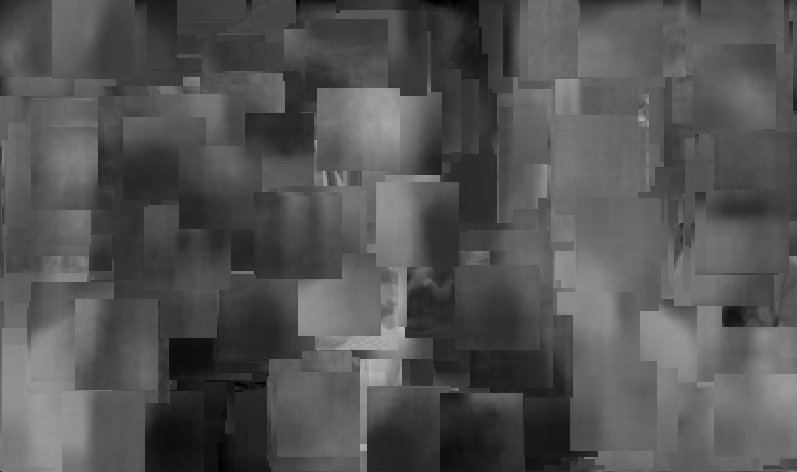
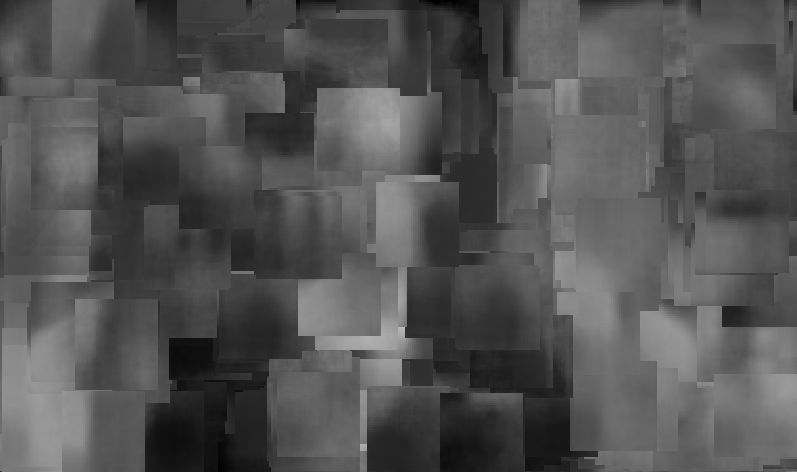
model 91 changes

diff --git a/modeller001.cpp b/modeller001.cpp
@@ -76,7 +76,6 @@ Modeller001::Modeller001(const std::string& configA)
 		_checkpointInterval = ARGS_INT_DEF(checkpoint_interval,100000);
 		_checkpointEvent = 0;
 		_mode = ARGS_STRING(mode);
-		_representationsDisable = ARGS_BOOL(disable_representations);
 		_modeLogging = ARGS_BOOL(logging_mode);
 		_modeLoggingFactor = ARGS_INT(logging_mode_factor); 
 		_modeTracing = ARGS_BOOL(tracing_mode);
@@ -204,7 +203,7 @@ Modeller001::Modeller001(const std::string& configA)
 		}		
 	}
 	// load slice representations if modelInitial 
-	if (!_representationsDisable && _modelInitial.size())
+	if (_modelInitial.size())
 	{
 		try
 		{
@@ -425,7 +424,7 @@ Modeller001::Modeller001(const std::string& configA)
 			}
 		}
 	}
-	if (_system && !_updateDisable)
+	if (_system)
 	{
 		if (_induceParameters.asyncThreadMax)
 			_threads.push_back(std::thread(run_induce, std::ref(*_active), std::ref(_induceParameters), std::ref(_updateParameters)));
@@ -464,7 +463,7 @@ void Modeller001::dump()
 	if (_system && _model!="")
 	{
 		bool ok = true;
-		if (ok && _updateDisable)
+		if (ok)
 		{
 			auto& activeA = *_active;
 			ActiveIOParameters ppio;
@@ -474,7 +473,7 @@ void Modeller001::dump()
 			ok = ok && activeA.dump(ppio);		
 			activeA.logging = logging;
 		}
-		if (ok && !_representationsDisable)
+		if (ok)
 		{
 			try
 			{
@@ -1188,7 +1187,6 @@ void Modeller001::model()
 				auto& record = records[std::get<4>(pos)];
 				auto scaleValue = std::get<5>(pos);
 				auto scale = _scales[scaleValue];
-				auto slice = std::get<6>(pos);
 				Record recordSub(record,_size,_size,x0,y0);
 				if (_entropyMinimum > 0.0 && recordSub.entropy() < _entropyMinimum)
 					continue;	
@@ -1206,29 +1204,30 @@ void Modeller001::model()
 						auto hr = recordsHistoryRepa(_scaleValency, scaleValue, _valency, recordSub);
 						_events->mapIdEvent[this->eventId] = HistoryRepaPtrSizePair(std::move(hr),_events->references);	
 					}
-				}
-				else if (!_representationsDisable)
-				{
-					auto& activeA = *_active;
-					std::lock_guard<std::mutex> guard(activeA.mutex);
-					auto& dr = *activeA.decomp;	
-					auto& cv = dr.mapVarParent();
-					auto& reps = *_slicesRepresentation;
-					auto hr = recordsHistoryRepa(_scaleValency, scaleValue, _valency, recordSub);
-					auto n = hr->dimension;
-					auto rr = hr->arr;	
-					while (true)
+					else
 					{
-						if (!reps.count(slice))
-							reps.insert_or_assign(slice, Representation(1.0,1.0,_size,_size));
-						auto& rep = reps[slice];
-						auto& arr1 = *rep.arr;
-						for (size_t i = 0; i < n-1; i++)
-							arr1[i] += rr[i];
-						rep.count++;
-						if (!slice)
-							break;
-						slice = cv[slice];
+						auto slice = std::get<6>(pos);
+						auto& activeA = *_active;
+						std::lock_guard<std::mutex> guard(activeA.mutex);
+						auto& dr = *activeA.decomp;	
+						auto& cv = dr.mapVarParent();
+						auto& reps = *_slicesRepresentation;
+						auto hr = recordsHistoryRepa(_scaleValency, scaleValue, _valency, recordSub);
+						auto n = hr->dimension;
+						auto rr = hr->arr;	
+						while (true)
+						{
+							if (!reps.count(slice))
+								reps.insert_or_assign(slice, Representation(1.0,1.0,_size,_size));
+							auto& rep = reps[slice];
+							auto& arr1 = *rep.arr;
+							for (size_t i = 0; i < n-1; i++)
+								arr1[i] += rr[i];
+							rep.count++;
+							if (!slice)
+								break;
+							slice = cv[slice];
+						}
 					}
 				}
 				this->eventId++;
@@ -1264,7 +1263,7 @@ void Modeller001::model()
 			}				
 		}
 		// representations
-		if (!_representationsDisable)
+		if (_struct!="struct006")
 		{		
 			auto& activeA = *_active;
 			std::lock_guard<std::mutex> guard(activeA.mutex);

diff --git a/main.cpp b/main.cpp
@@ -3535,6 +3535,7 @@ int main(int argc, char *argv[])
 		bool distributionOnly = ARGS_BOOL(distribution_only);
 		int lengthOver = ARGS_INT(over_length);
 		bool imageShowIs = ARGS_BOOL(show_image);	
+		int representationsMin = ARGS_INT(minimum_representations);
 		if (ok)
 		{
 			ok = ok && model.size() && level1Model.size();
@@ -3585,6 +3586,7 @@ int main(int argc, char *argv[])
 		scaleX = sizeX * interval;
 		scaleY = sizeY * interval;
 		std::vector<std::tuple<std::size_t,double,std::size_t,std::size_t,std::size_t,std::size_t>> actsPotsCoord(sizeY*sizeX);
+		SizeSizeUMap cvc;
 		if (ok)
 		{
 			std::shared_ptr<Alignment::DecompFudSlicedRepa>	level1Decomp;
@@ -3632,6 +3634,7 @@ int main(int argc, char *argv[])
 			auto& dr = *activeA.decomp;	
 			auto& dr1 = *level1Decomp;	
 			auto& cv = dr.mapVarParent();
+			if (representationsMin) cvc = cv; // make a copy if necessary
 			auto& vi = dr.mapVarInt();
 			auto& cv1 = dr1.mapVarParent();
 			auto& vi1 = dr1.mapVarInt();
@@ -3983,16 +3986,21 @@ int main(int argc, char *argv[])
 				{
 					auto length = std::get<0>(t);
 					auto slice = std::get<4>(t);
-					if (slice && reps.count(slice) && (!lengthOver || lengthOver < length))
+					if (slice && (!lengthOver || lengthOver < length))
 					{
-						auto x = std::get<2>(t);
-						auto y = std::get<3>(t);
-						auto average = std::get<5>(t);
-						auto posX = centreX + (interval * x - scaleX / 2.0) * captureHeight / captureWidth;
-						auto posY = centreY + interval * y - scaleY / 2.0;
-						QPointF point(posX*captureWidth,posY*captureHeight);
-						auto rep = reps[slice].image(1,valency,average).scaledToHeight(scale*captureHeight);
-						representationPainter.drawImage(point,rep);
+						while (slice && (!reps.count(slice) || !reps[slice].count || reps[slice].count < representationsMin))
+							slice = cvc[slice];	
+						if (reps.count(slice))
+						{
+							auto x = std::get<2>(t);
+							auto y = std::get<3>(t);
+							auto average = std::get<5>(t);
+							auto posX = centreX + (interval * x - scaleX / 2.0) * captureHeight / captureWidth;
+							auto posY = centreY + interval * y - scaleY / 2.0;
+							QPointF point(posX*captureWidth,posY*captureHeight);
+							auto rep = reps[slice].image(1,valency,average).scaledToHeight(scale*captureHeight);
+							representationPainter.drawImage(point,rep);							
+						}
 					}
 				}
 			}

diff --git a/modeller001.h b/modeller001.h
@@ -26,7 +26,6 @@ namespace WBOT02
 		bool _eventLogging;	
 		std::size_t _eventLoggingFactor;
 		std::string _mode;
-		bool _representationsDisable;
 		bool _modeLogging;
 		std::size_t _modeLoggingFactor;
 		bool _modeTracing;

diff --git a/README.md b/README.md
@@ -3977,6 +3977,8 @@ It is not much worse than scanned *model* 61, however, given that *model* 61 has
 
 ![contour004_061_minent_representation](images/contour004_061_minent_representation.png) 
 
+Note that the *2-level model* contour maps are generated with `generate_contour010` which has a new parameter, `minimum_representations`. This is set to `10` so that small *slices* are ignored in favour of their parent *slices* resulting in smoother representations.
+
 The median *diagonal* at 17.6 is much less than that for *model* 66 at 26.0, which also suggests that a larger threshold might be considered. However, we can expect higher *level* *alignments* to be somewhat lower than for lower *level models* because the *alignments* are global rather than local.
 
 The average number of *underlying variables* per *fud* is much higher at 14.47 than for *model* 61 at 6.16 because *slices* are *bivalent*. There are only 25 *underlying* actives so the coverage is very high at up to 58% per *fud*, although there may be more than one *variable* from an *underlying model*.
